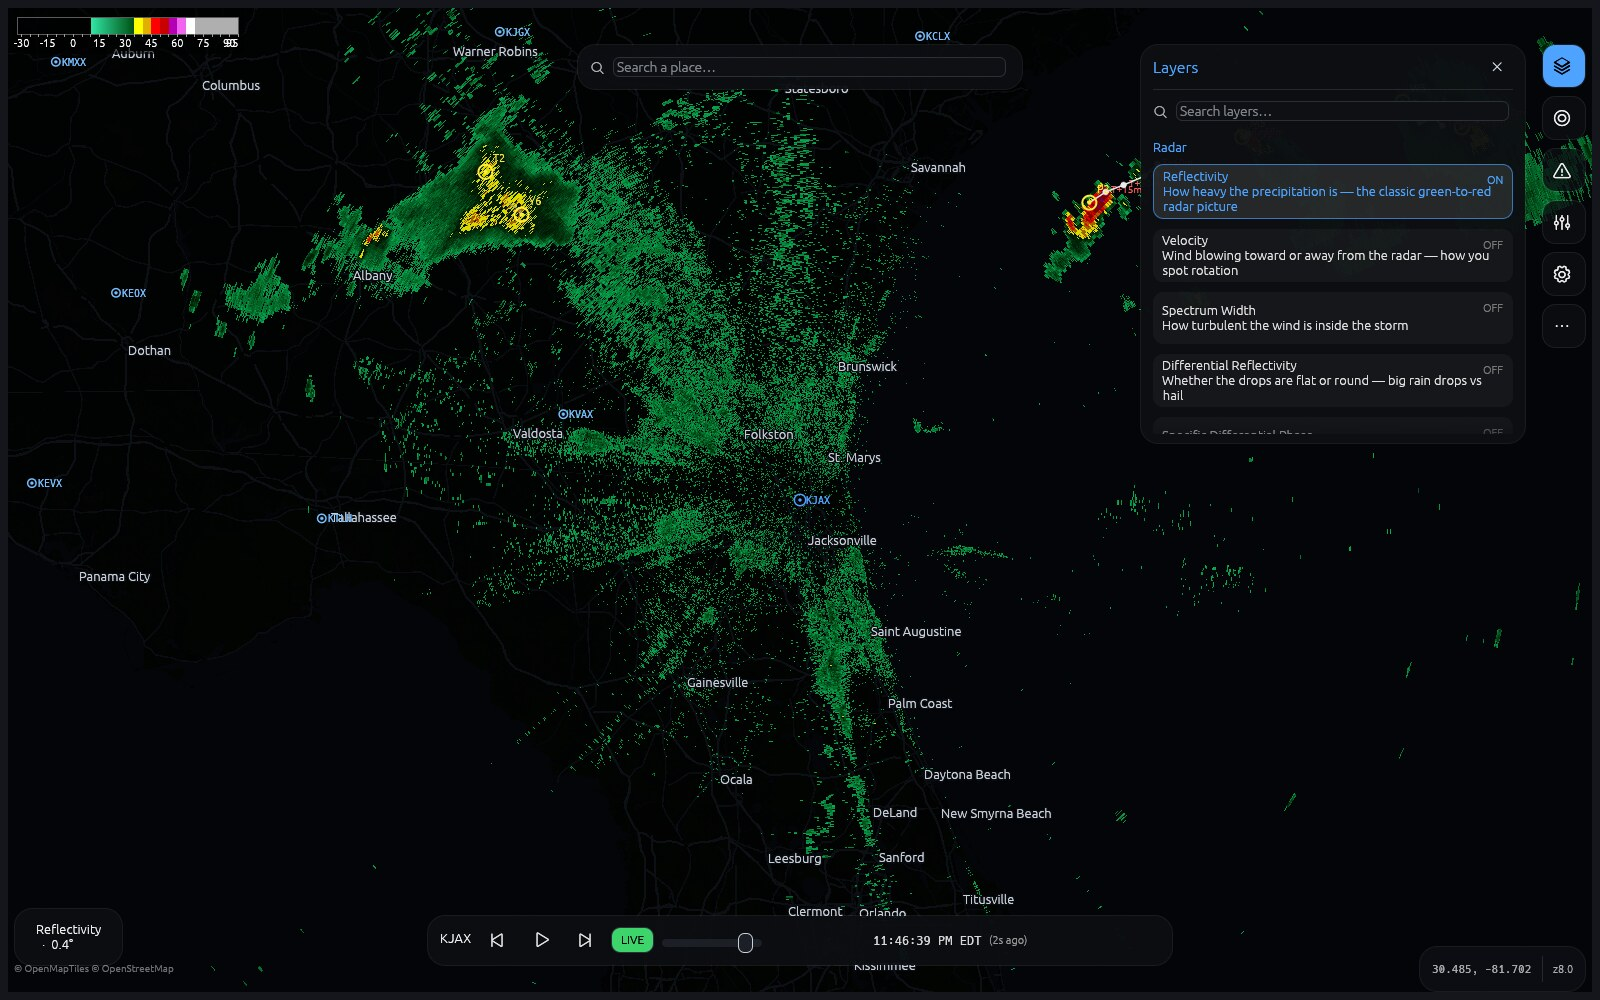
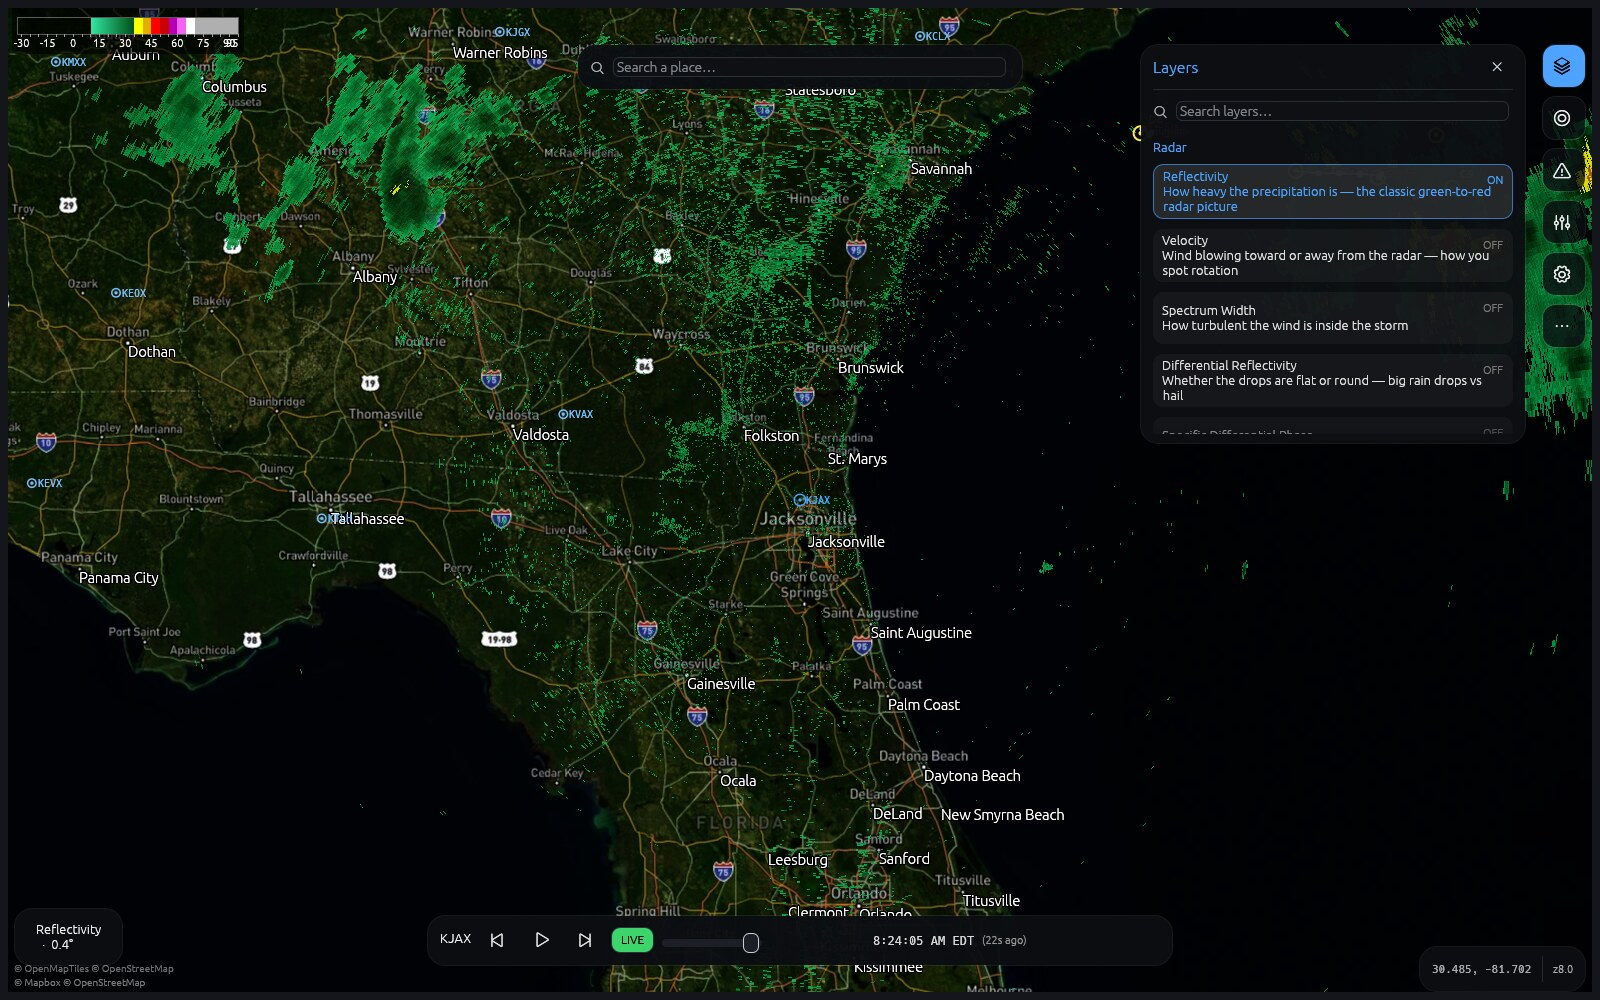
docs: re-shoot on satellite imagery and rewrite the walkthrough
Every screenshot is recaptured on the Mapbox Satellite Streets basemap against
live afternoon convection over KJAX, replacing shots taken on the dark vector
map at a time of day when there was barely any echo to show.

The walkthrough is reorganized around what someone is actually doing —
"watching a storm", "deciding which storm matters", "looking ahead", "the
national picture" — instead of listing subsystems. Each pairing now makes a
point: velocity next to reflectivity so the couplets and forecast tracks read
against the same storms, four tilts next to a cross-section for structure,
the storm table next to the alerts panel for triage.

Adds the GLM satellite-lightning shot, and drops the forecast-rotation-tracks
tile: updraft helicity is genuinely weak today, so the shot showed a legend over
an empty map. The feature stays described in text rather than illustrated
misleadingly.

Also documents hdf5lite in the workspace list and the three new headless
verifiers.

diff --git a/README.md b/README.md
@@ -33,12 +33,11 @@ you'll actually use. Re-run the wizard anytime from **⋯ More → Setup wizard*
 
 ## The interface
 
-Hook Echo-WX is a map with a few floating controls over it — there is no menu
-bar, no docked toolbar, and nothing between you and the radar:
+Hook Echo-WX is a map with a few floating controls over it — no menu bar, no
+docked toolbar, nothing between you and the radar:
 
 - **Bottom-left** names the product you're looking at. Click it to switch
-  products or tilts; every product carries a plain-English description of what
-  it shows and why you'd look at it.
+  products or tilts; each one says in plain English what it shows.
 - **Bottom-center** is the timeline: site, clock, play, scrub, and a LIVE badge
   that snaps back to the newest scan.
 - **Right edge**: Layers, radar Site, Alerts, Advanced toolbox, Settings, and
@@ -46,7 +45,7 @@ bar, no docked toolbar, and nothing between you and the radar:
 - **Top-center** searches for a place. `Ctrl+K` searches every product, layer,
   window and tool in the app — one list, described in plain English.
 
-| The product picker | The Layers panel |
+| Pick a product | Find anything |
 |---|---|
 | ![Products](docs/shots/products.jpg) | ![Layers](docs/shots/layers.jpg) |
 
@@ -60,42 +59,67 @@ sliders, chase packs, and the rest.
 
 ## Walkthrough
 
-**Level 2 base data** — all six moments on a GPU polar pipeline over vector/raster
-basemaps, with VCP-aware tilt selection, velocity dealiasing, storm-relative
-velocity, and GRLevelX `.pal` color tables (editable in-app). Every product
-carries a plain-English description of what it shows, and one action opens the
-same product at four tilts with the cameras linked:
+*(Screenshots are live data on the Mapbox Satellite Streets basemap; a dozen
+other basemaps ship too, from a dark vector map to GOES satellite imagery.)*
 
-| Live radar | Velocity (dealiased) | Four tilts at once |
+### Watching a storm
+
+All six Level 2 moments on a GPU polar pipeline, with VCP-aware tilt selection,
+velocity dealiasing, storm-relative velocity, and GRLevelX `.pal` color tables.
+Velocity here shows the inbound/outbound couplets, the SCIT cells the radar is
+tracking with their 15/30/45/60-minute forecast positions, and the warning
+polygons in force:
+
+| Reflectivity | Velocity (dealiased) |
+|---|---|
+| ![REF](docs/shots/reflectivity.jpg) | ![VEL](docs/shots/velocity.jpg) |
+
+One action opens the same product at four tilts with the cameras linked, so you
+can see how a storm leans with height; cross-sections slice it vertically in any
+product:
+
+| Four tilts at once | Cross-section |
+|---|---|
+| ![All tilts](docs/shots/alltilts.jpg) | ![Cross-section](docs/shots/xsection.jpg) |
+
+### Deciding which storm matters
+
+Every tracked cell in one sortable table — hail size, tops, VIL, rotation flags —
+with a click on any row flying you there. Alongside it, clickable NWS bulletins,
+parsed storm-motion vectors, and an active-alerts panel sorted worst-first:
+
+| Storm attributes | Active alerts |
+|---|---|
+| ![Storm table](docs/shots/stormtable.jpg) | ![Alerts](docs/shots/alerts.jpg) |
+
+### Looking ahead
+
+HRRR future radar rides the timeline's forecast tail, so scrubbing past the
+present keeps going into the model. The WPC surface analysis draws the national
+weather map — fronts with their proper pips, highs and lows with pressures. And
+any point on the map gives you the plain NWS forecast for that spot:
+
+| HRRR future radar | Surface fronts | Tap-for-forecast |
 |---|---|---|
-| ![REF](docs/shots/reflectivity.jpg) | ![VEL](docs/shots/velocity.jpg) | ![All tilts](docs/shots/alltilts.jpg) |
+| ![HRRR](docs/shots/hrrr.jpg) | ![Fronts](docs/shots/fronts.jpg) | ![Forecast](docs/shots/forecast.jpg) |
 
-**Looking ahead** — HRRR future radar on the timeline's forecast tail, forecast
-**rotation tracks** (max updraft-helicity swaths — where storms are forecast to
-rotate), near-surface **wildfire smoke**, the WPC **surface analysis** with its
-fronts and pressure centers, and a plain **point forecast** for anywhere you tap:
+Also on the forecast tail: **rotation tracks** (HRRR max updraft-helicity swaths
+— where storms are forecast to rotate, accumulated across the hours you scrub
+to) and near-surface **wildfire smoke**.
 
-| Forecast rotation tracks | Surface fronts | Tap-for-forecast |
+### The national picture
+
+MRMS composite reflectivity, 24-hour rainfall, and individual lightning flashes
+from the GOES satellite's lightning mapper, fading as they age. Every gridded
+layer draws its own scale and units:
+
+| MRMS composite | 24-hour rainfall | Satellite lightning |
 |---|---|---|
-| ![Rotation tracks](docs/shots/rotationtracks.jpg) | ![Fronts](docs/shots/fronts.jpg) | ![Forecast](docs/shots/forecast.jpg) |
+| ![MRMS](docs/shots/mrms.jpg) | ![QPE](docs/shots/qpe.jpg) | ![GLM](docs/shots/glm.jpg) |
 
-**When storms are up** — every tracked cell in one sortable table (hail size,
-tops, VIL, rotation flags — click a row to fly there), clickable NWS bulletins
-with parsed storm-motion vectors, an active-alerts panel, vertical
-cross-sections in any product, and rain-arrival ETAs for your saved places:
-
-| Storm attributes | Active alerts | Cross-section |
-|---|---|---|
-| ![Storm table](docs/shots/stormtable.jpg) | ![Alerts](docs/shots/alerts.jpg) | ![Cross-section](docs/shots/xsection.jpg) |
-
-**National view (MRMS)** — CONUS composite reflectivity, cloud-to-ground lightning
-density, rotation tracks / azimuthal shear, MESH hail size + 24-h hail swaths,
-storm-total QPE flood layers, surface precipitation type, and FLASH flash-flood
-recurrence intervals. Every gridded layer draws its own scale and units:
-
-| CONUS composite | 1-h QPE | HRRR future radar |
-|---|---|---|
-| ![MRMS](docs/shots/mrms.jpg) | ![QPE](docs/shots/qpe.jpg) | ![HRRR](docs/shots/hrrr.jpg) |
+Plus cloud-to-ground lightning density, rotation tracks / azimuthal shear, MESH
+hail size and 24-h hail swaths, surface precipitation type, and FLASH
+flash-flood recurrence intervals.
 
 ## Feature highlights
 
@@ -145,6 +169,11 @@ recurrence intervals. Every gridded layer draws its own scale and units:
 - **Rotation couplets**: client-side azimuthal-shear couplet detection on the
   live volume, with its own alarm sound — a mesocyclone flag that doesn't wait
   for a Level 3 product.
+- **Satellite lightning**: individual flashes from the GOES-19 Geostationary
+  Lightning Mapper, ~40 seconds behind real time, fading over a 15-minute window.
+  GLM sees in-cloud flashes a ground network never reports. The netCDF-4 granules
+  are decoded by a from-scratch minimal HDF5 reader (`crates/hdf5lite`), because
+  the reference C library can't ship in the Android build.
 - **Forecast tools**: HRRR future radar (0–18 h) on the timeline's forecast tail,
   **forecast rotation tracks** (MXUPHL swaths accumulated across the forecast
   hours you scrub to), near-surface **wildfire smoke**, and the WPC **coded
@@ -176,6 +205,9 @@ native GPS for chase mode.
 
 ## Workspace
 
+- `crates/hdf5lite` — minimal read-only HDF5 reader, just enough for the netCDF-4
+  files NOAA publishes (GLM lightning). Exists because the reference reader is a
+  C library the Android build can't take; checked against h5py on real granules.
 - `crates/nexrad-level3` — from-scratch NEXRAD Level 3 (RPG) product decoder:
   storm-cell packets (15/19/20/23) and digital radial arrays (packet 16,
   DVL/EET/HHC), golden-tested against MetPy.
@@ -183,6 +215,7 @@ native GPS for chase mode.
   environment fields), NWS alerts + storm motion/escalation, IEM archived
   warnings + live/archived LSRs, SPC outlooks/climatology, METAR, NHC tropical,
   aviation SIGMETs, Area Forecast Discussions, ProbSevere, placefiles, spotters,
+  GOES GLM lightning, WPC surface fronts, NWS point forecasts,
   TDS detection, sounding indices (parcel CAPE / Bunkers SRH / SCP / STP),
   CAPPI/cross-section/3D resampling.
 - `crates/hookecho` — the app: egui UI + wgpu render pipelines.
@@ -209,10 +242,13 @@ cargo run --release -- --headless-reports 2013-05-20T19:00Z 2013-05-20T21:00Z
 cargo run --release -- --headless-afd KTLX
 cargo run --release -- --headless-aviation
 cargo run --release -- --headless-indices -97.5 35.3
+cargo run --release -- --headless-glm                       # GOES satellite lightning
+cargo run --release -- --headless-fronts                    # WPC surface analysis
+cargo run --release -- --headless-hrrr uh 3 uh.png          # refc|uh|smoke
 ```
 
 ```sh
-cargo test    # 173 offline unit tests
+cargo test    # 182 offline unit tests
 ```
 
 License: MIT.
